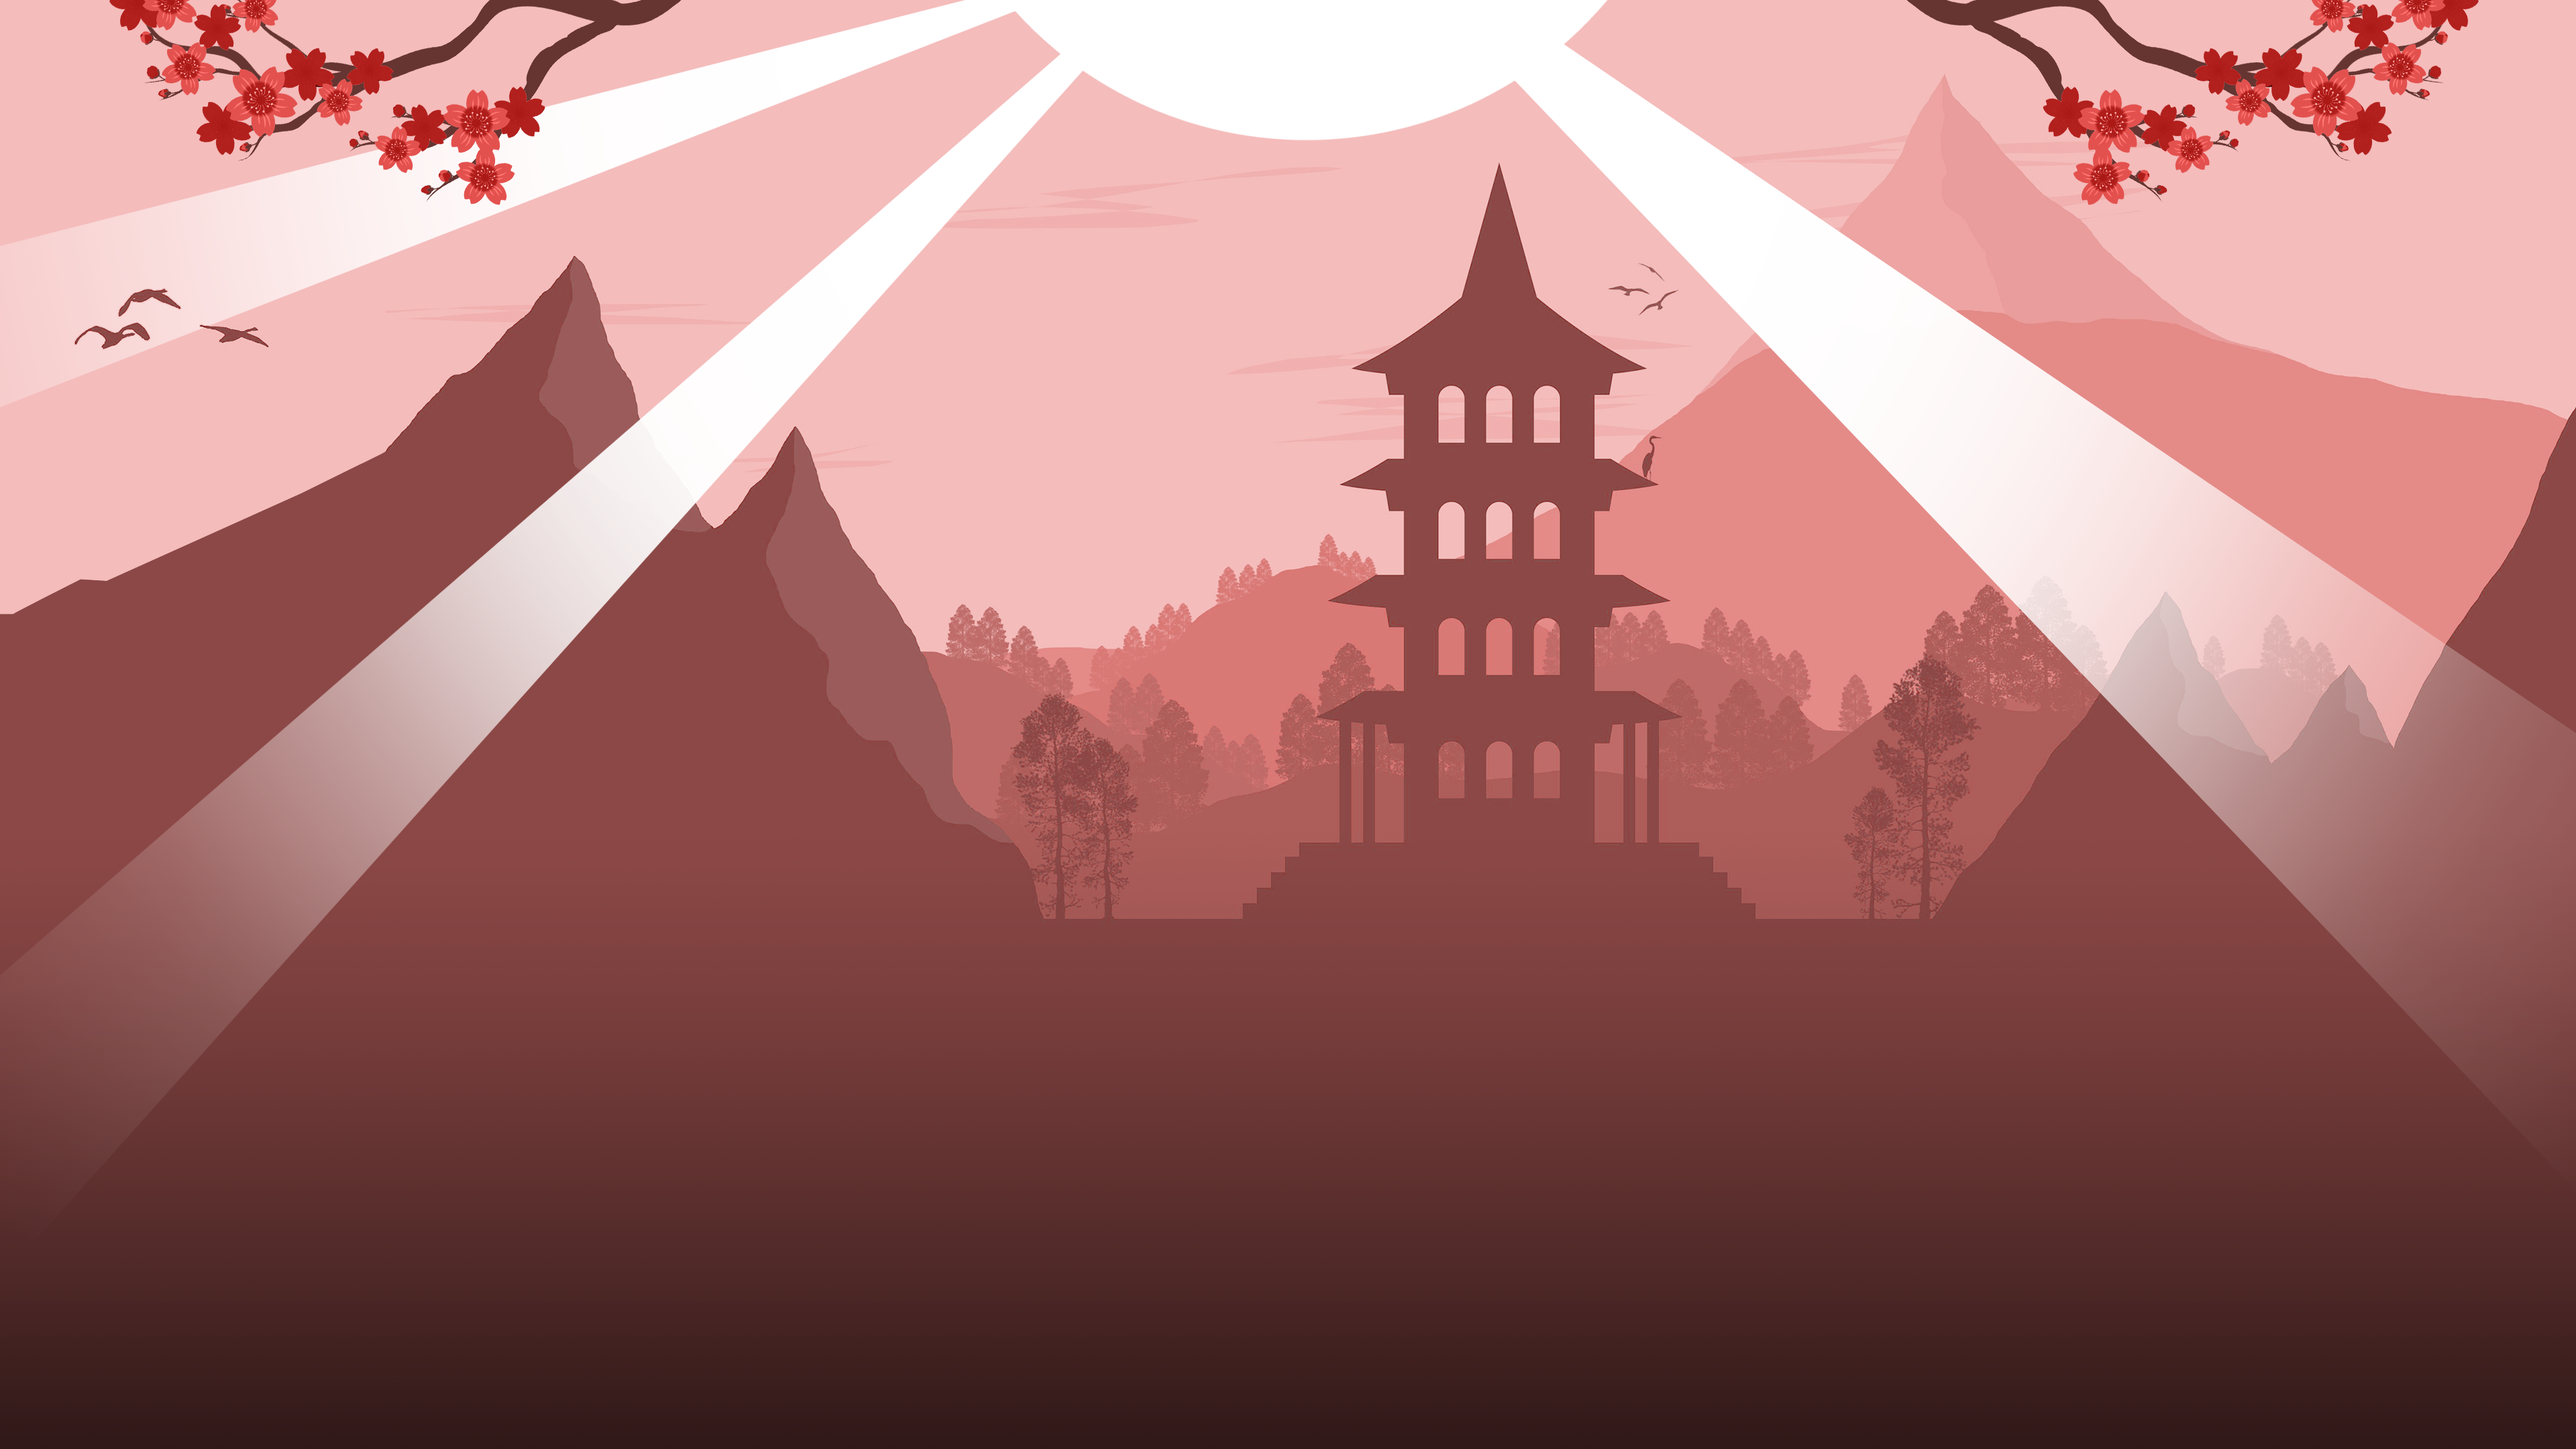
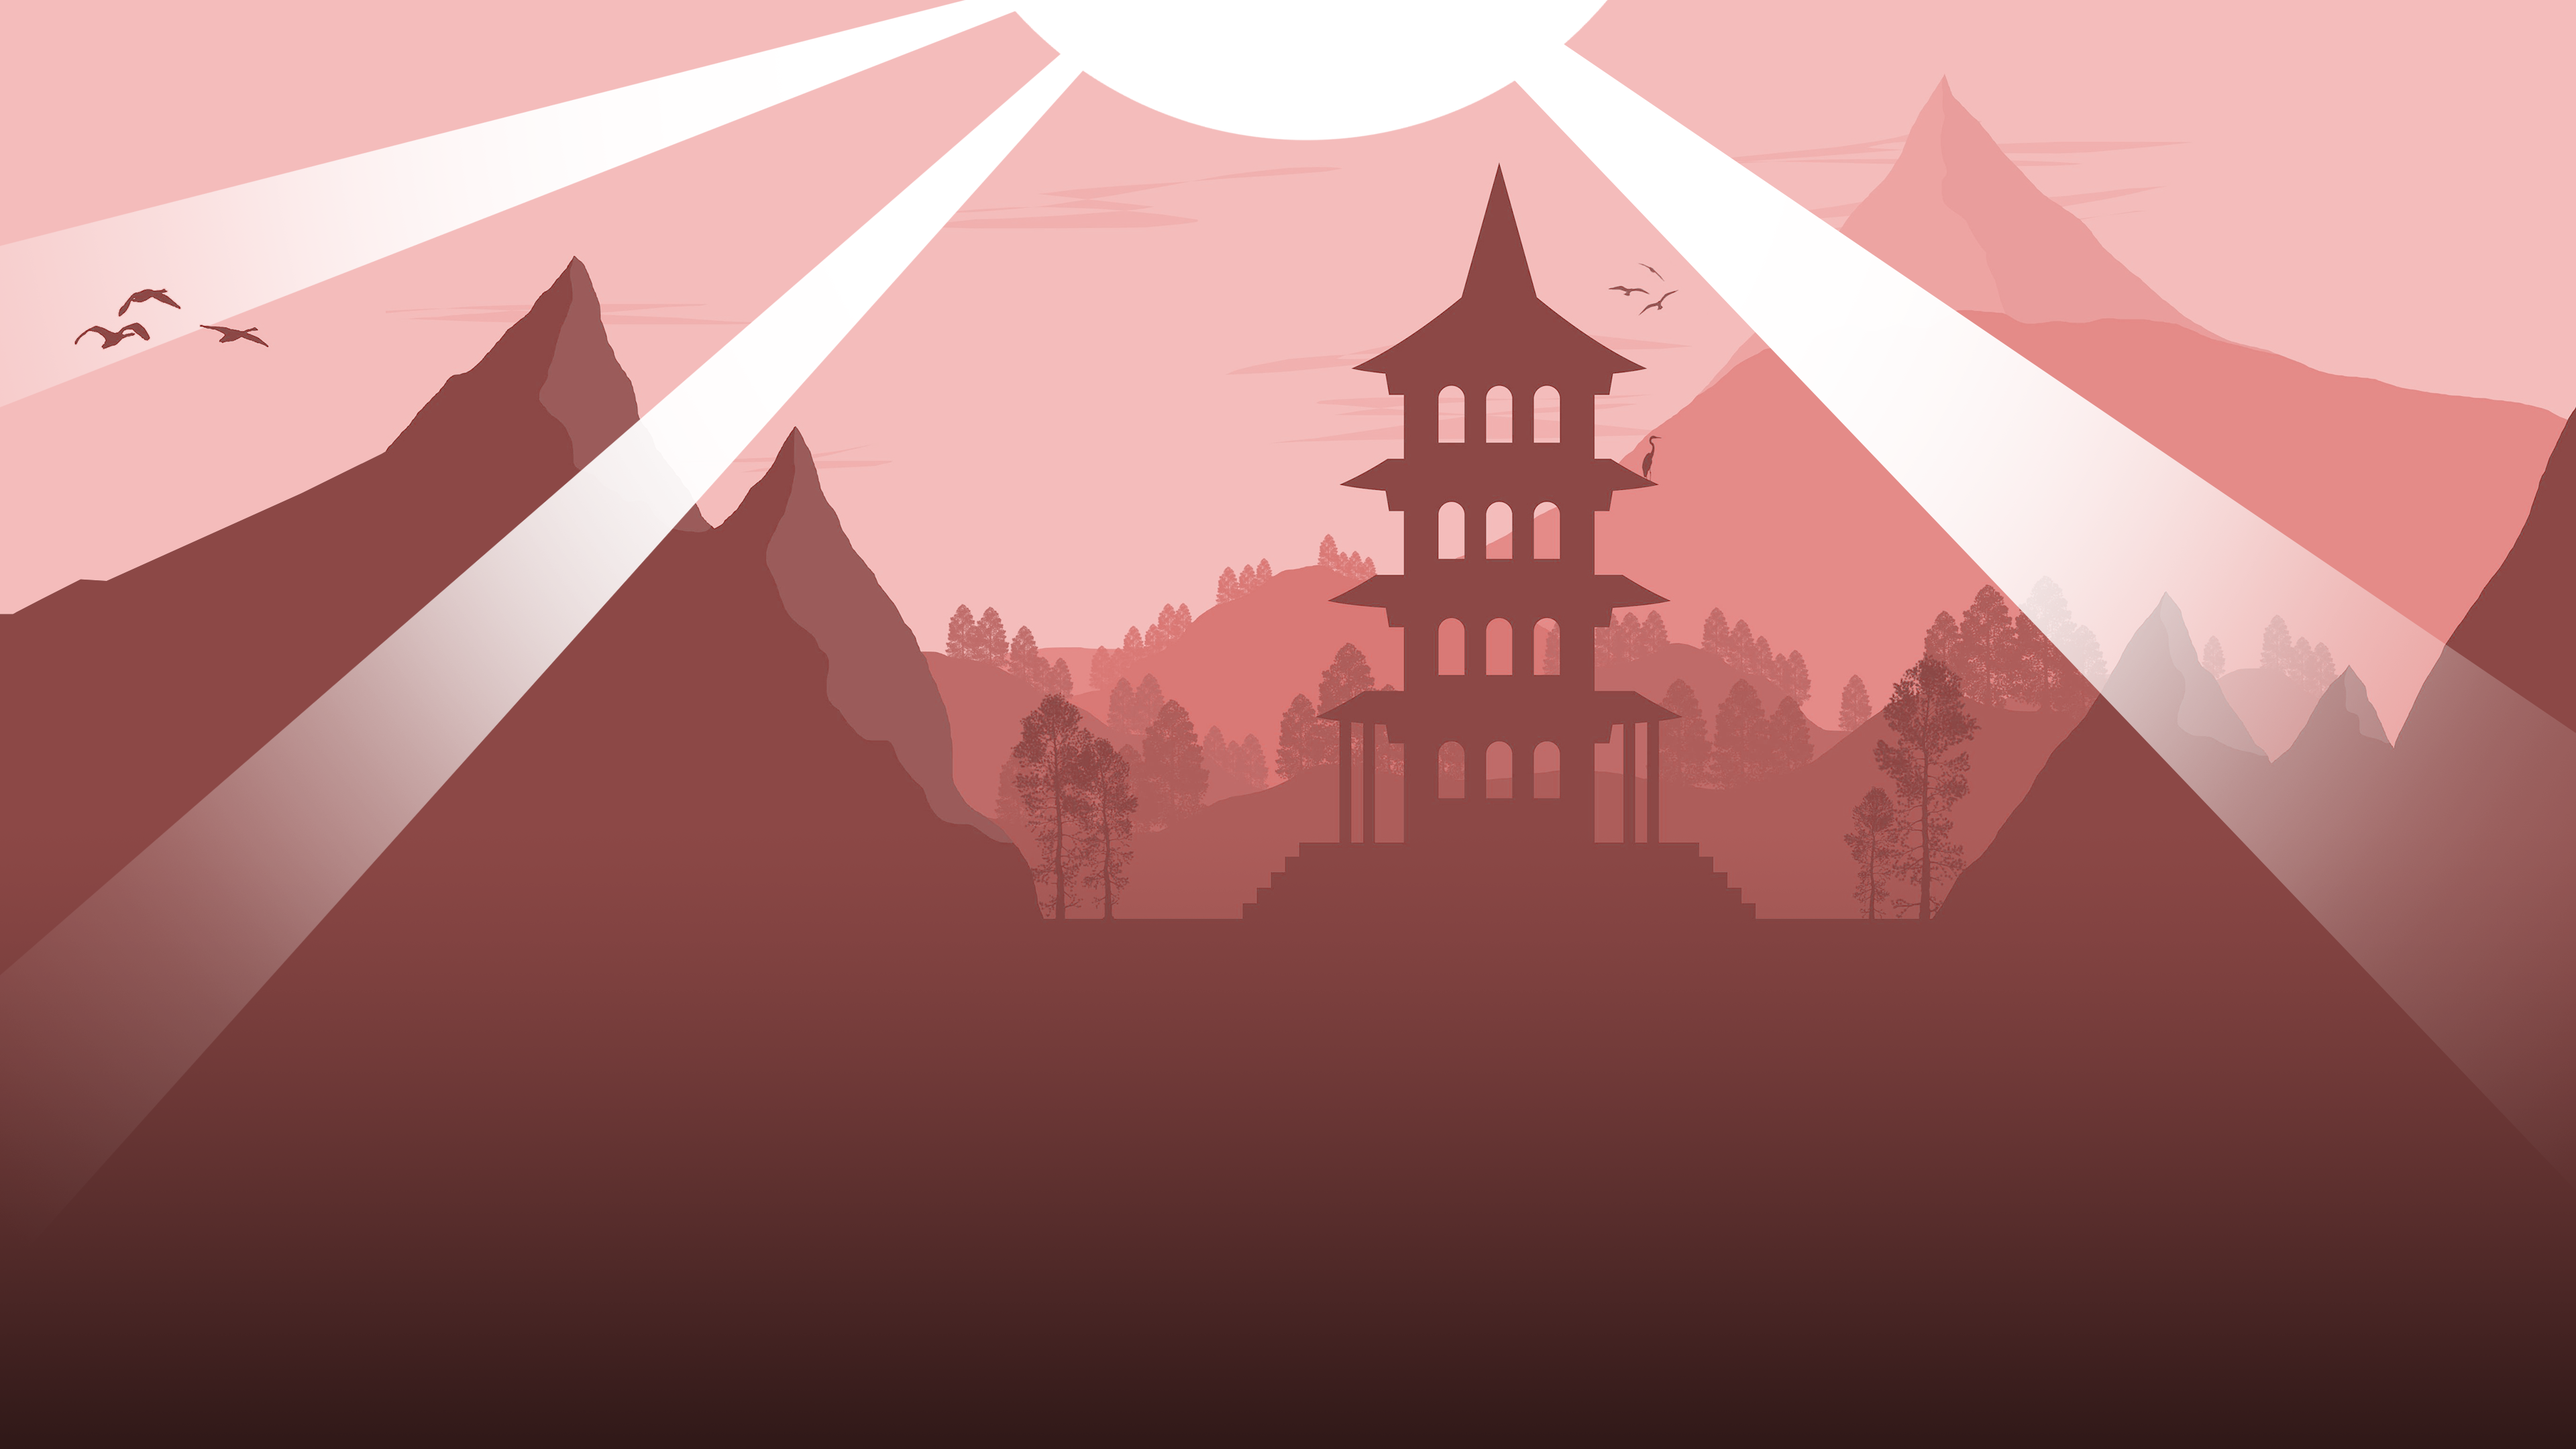
Progress I think

Changed region(s): [[0.0312, 0.0, 0.2812, 0.1551], [0.75, 0.0, 0.9688, 0.1551]]

diff --git a/Practica_4.5/Practica_4.5.css b/Practica_4.5/Practica_4.5.css
@@ -6,10 +6,33 @@ body {
 
 /*--------------------------------------------------------------*/
 
+.branch1 {
+    z-index: 100;
+    position: fixed;
+    width: 400px;
+    height: auto;
+    transform: rotate(45deg);
+    right: 10%;
+    bottom: 82%;
+}
+
+.branch2 {
+    z-index: 100;
+    position: fixed;
+    width: 400px;
+    height: auto;
+    transform: rotate(-45deg) scaleX(-1);
+    left: 10%;
+    bottom: 82%;
+}
+
+.branch2 {
+    position: absolute;
+}
+
 .tituloPagina {
     width: 100%;
     height: 10%;
-    background: white;
     text-align: center;
 }
 
@@ -17,7 +40,7 @@ body {
 
 .contenedor {
     position: relative;
-    width: 80%;
+    width: 79%;
     height: 85%;
     margin: 0 auto;
     margin-top: 25px;
@@ -31,9 +54,10 @@ li {
 
 #divTitulo {
     position: absolute;
-    background-color: white;
     width: 50%;
-    height: 20%;
+    height: 23%;
+    border: 5px solid #d03936;
+    background-color: rgba(255, 255, 255, 0.5);
 }
 
 #titulo {
@@ -44,10 +68,11 @@ li {
 
 #divCaracteristicas {
     position: absolute;
-    background-color: white;
     width: 50%;
-    height: 40%;
-    top: 25%;
+    height: 37%;
+    top: 27%;
+    border: 5px solid #d03936;
+    background-color: rgba(255, 255, 255, 0.5);
 }
 
 #listaCaracteristicas {
@@ -58,31 +83,34 @@ li {
 
 #divSinopsis {
     position: absolute;
-    background-color: white;
     width: 50%;
-    height: 30%;
-    top: 70%;
+    height: 31%;
+    top: 69%;
+    border: 5px solid #d03936;
+    background-color: rgba(255, 255, 255, 0.5);
 }
 
 /*--------------------------------------------------------------*/
 
 #divImagen {
     position: absolute;
-    background-color: white;
     width: 18%;
     height: 55%;
     left: 70%;
+    border: 5px solid #d03936;
+    background-color: rgba(255, 255, 255, 0.5);
 }
 
 /*--------------------------------------------------------------*/
 
 #divTrailer {
     position: absolute;
-    background-color: white;
     width: 40%;
     height: 40%;
     left: 60%;
     top: 60%;
+    border: 5px solid #d03936;
+    background-color: rgba(255, 255, 255, 0.5);
 }
 
 /*--------------------------------------------------------------*/

diff --git a/Practica_4.5/Practica_4.5.html b/Practica_4.5/Practica_4.5.html
@@ -5,6 +5,7 @@
         <title>My Anime List - Albert Lozano</title>
         <script src="Practica_4.5.js"></script>
         <link rel="stylesheet" href="Practica_4.5.css">
+        <link rel="icon" href="images/icon.ico" type="image/x-icon">
     </head>
 
     <body>
@@ -34,14 +35,17 @@
             -IMPORTANTE: pondremos a nuestra página "un filtro de control parental", filtrando toda consulta que contenga contenido "Hentai". Si al hacer una consulta la página no pasará el filtro se volvería a realizar una nueva consulta.
         -->
 
+        <img class="branch1" src="images/Japanese_Branch.png" alt="">
+        <img class="branch2" src="images/Japanese_Branch.png" alt="">
+
         <div class="tituloPagina">
-            <a href="Practica_4.5.html"><img src="images/MyAnimeList_small.png" alt="My Anime List"></a>
+            <a href="Practica_4.5.html"><img src="images/MyAnimeList_small.png" alt="My Anime List" title="My Anime List"></a>
         </div>
 
         <div class="contenedor">
 
             <div id="divTitulo">
-                <h2 id="titulo">Bleach</h2>
+                <h2 id="titulo"></h2>
                 <p>También conocido como:</p>
                 <ul id="listaTitulos">
                     <li id="titulo1"></li>

diff --git a/Practica_4.5/Practica_4.5.js b/Practica_4.5/Practica_4.5.js
@@ -1,3 +1,20 @@
 function myAnimeList() {
+    fetch('https://api.jikan.moe/v4/random/anime')
+    .then(response => response.json()) // Convertir la respuesta a JSON
+    .then(data => {
+      // Formatear y mostrar la información del anime
+      const tituloAnime = data.title;
+      const sinopsisAnime = data.synopsis;
+
+      const elementoTitulo = document.getElementById('titulo1');
+      elementoTitulo.textContent = tituloAnime;
+
+      const elementoSinopsis = document.getElementById('textoSinopsis');
+      elementoSinopsis.textContent = sinopsisAnime;
+      
+    })
+    .catch(error => {
+      console.error('Error al obtener la información del anime:', error);
+    });
     
 }
